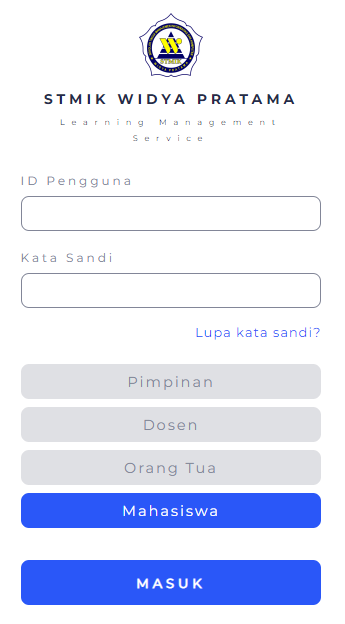
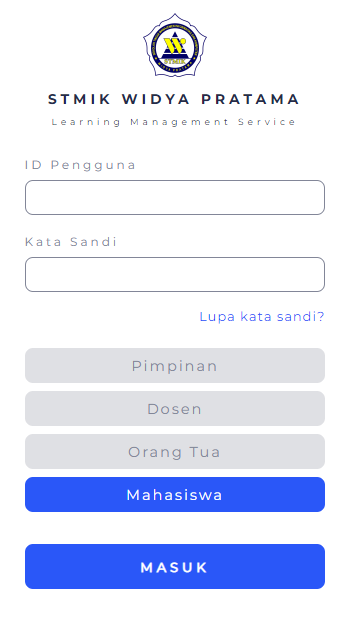
update: fix letter spacing on header and gif on readme

diff --git a/public/scss/_responsive_design.scss b/public/scss/_responsive_design.scss
@@ -2,7 +2,7 @@
     .alert {
         .pict {
             img {
-                width: 100%;
+                width: 40%;
             }
         }
     }
@@ -25,6 +25,15 @@
         padding-top: 1rem;
         align-items: flex-start;
     }
+
+    .alert {
+        .pict {
+            img {
+                width: 100%;
+            }
+        }
+    }
+
     header {
         @include all-center;
         flex-direction: column;
@@ -39,7 +48,8 @@
             margin-top: .8rem;
             font-size: 14px;
         } .service {
-            font-size: 8px;
+            font-size: 9px;
+            letter-spacing: 4px;
             line-height: 16px;
         }
     }

diff --git a/public/css/main.css b/public/css/main.css
@@ -261,7 +261,7 @@ footer button:hover {
 
 @media screen and (max-width: 1000px) {
   .alert .pict img {
-    width: 100%;
+    width: 40%;
   }
   main .group {
     width: 80%;
@@ -274,6 +274,9 @@ footer button:hover {
   body {
     padding-top: 1rem;
     align-items: flex-start;
+  }
+  .alert .pict img {
+    width: 100%;
   }
   header {
     display: flex;
@@ -292,7 +295,8 @@ footer button:hover {
     font-size: 14px;
   }
   header .service {
-    font-size: 8px;
+    font-size: 9px;
+    letter-spacing: 4px;
     line-height: 16px;
   }
   main {

diff --git a/public/page/login.html b/public/page/login.html
@@ -11,7 +11,6 @@
     <link rel="shortcut icon" href="./../../app/images/logo.png" type="image/x-icon">
 </head>
 <body>
-
     <div class="alert">
         <div class="pict"></div>
         <p>ID pengguna atau Kata sandi yang anda masukkan mungkin salah!!!</p>
@@ -19,6 +18,7 @@
             <img src="./../../app/images/x-circle.png" alt="">
         </div>
     </div>
+
     <form class="container" method="post">
         <header>
             <img src="./../../app/images/logo.png" alt="logo stmik widya pratama">

diff --git a/public/js/app.js b/public/js/app.js
@@ -1,14 +1,14 @@
 
-import NotifAlert from './class/Alert.js'
+import Alert from './class/PopupAlert'
 
-// Module Inisiliate
+// Module initialization
 const 
-    notif = new NotifAlert()
+    popupAlert = new Alert()
 
 // DOM
 const 
     btn_closeAlert = document.querySelector('.pict.close-alert')
 
 btn_closeAlert.addEventListener('click',()=>{
-    notif.hide()
+    popupAlert.hide()
 })

diff --git a/public/js/class/PopupAlert.js b/public/js/class/PopupAlert.js
@@ -1,5 +1,5 @@
 
-export default class NotifAlert {
+export default class Alert {
     containerAlert = document.querySelector('.alert')
 
     unhide() {

diff --git a/README.md b/README.md
@@ -12,13 +12,13 @@
 
 <h4>Before :</h4>
 
-<img src="app/images/ss-before.png"></img>
+<img src="app/images/ss-before.png" width="600px"></img>
 
 <h4>After :</h4>
 
     a. Desktop Version
 
-<img src="./app/images/ss-after-desktop.png"></img>
+<img src="./app/images/ss-after-desktop.png" width="600px"></img>
 
     b. Mobile Version
 
@@ -26,7 +26,7 @@
     <a href="./public/scss/_responsive_design.scss">« responsive code »</a>
 </p>
 
-<img src="./app/images/ss-after-mobile.png"></img>
+<img src="./app/images/ss-after-mobile.png" width="300px"></img>
 
 <h4>Feature :</h4>
 
@@ -37,5 +37,7 @@
     &nbsp;&nbsp;&nbsp;
     <a href="./public/scss/component/_popup_alert.scss">« scss »</a>
 </p>
+
+<img src="./app/videos/alert.gif" width="600px"></img>
 
     b. Button
